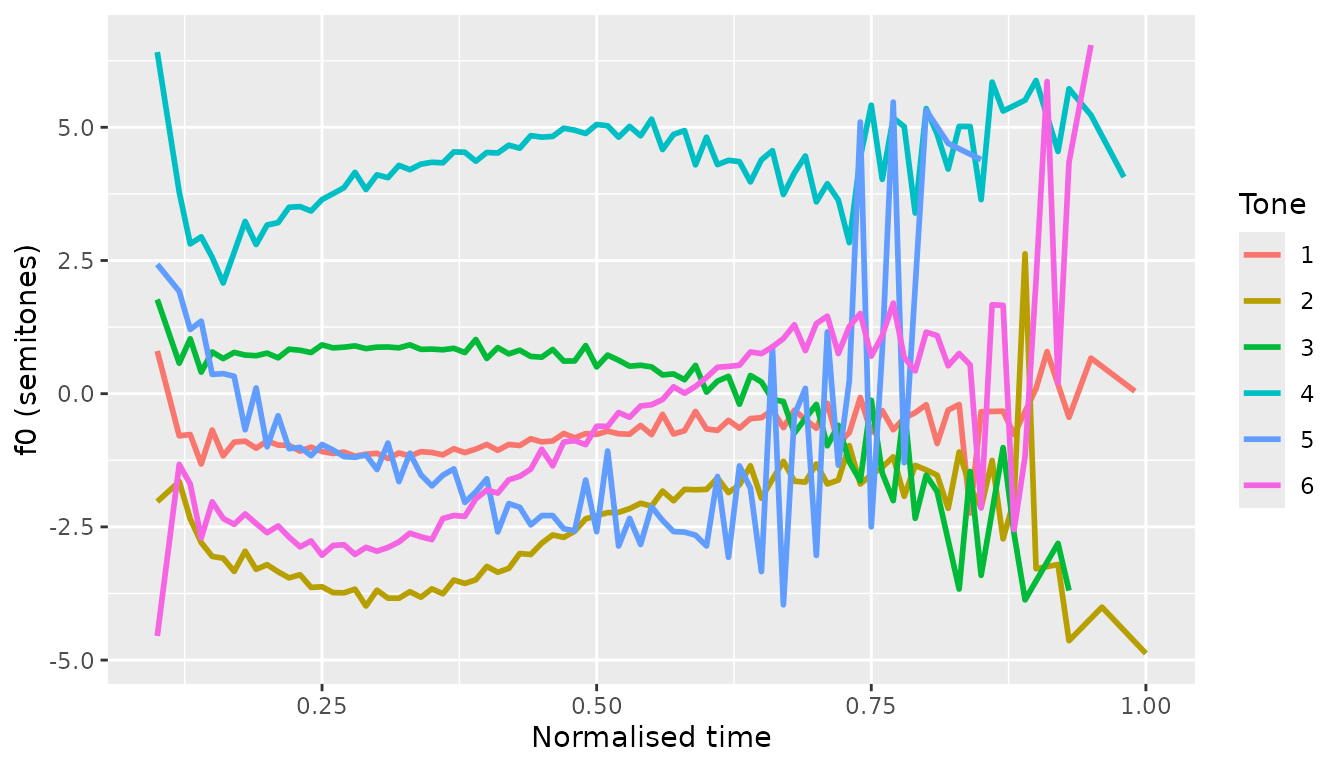
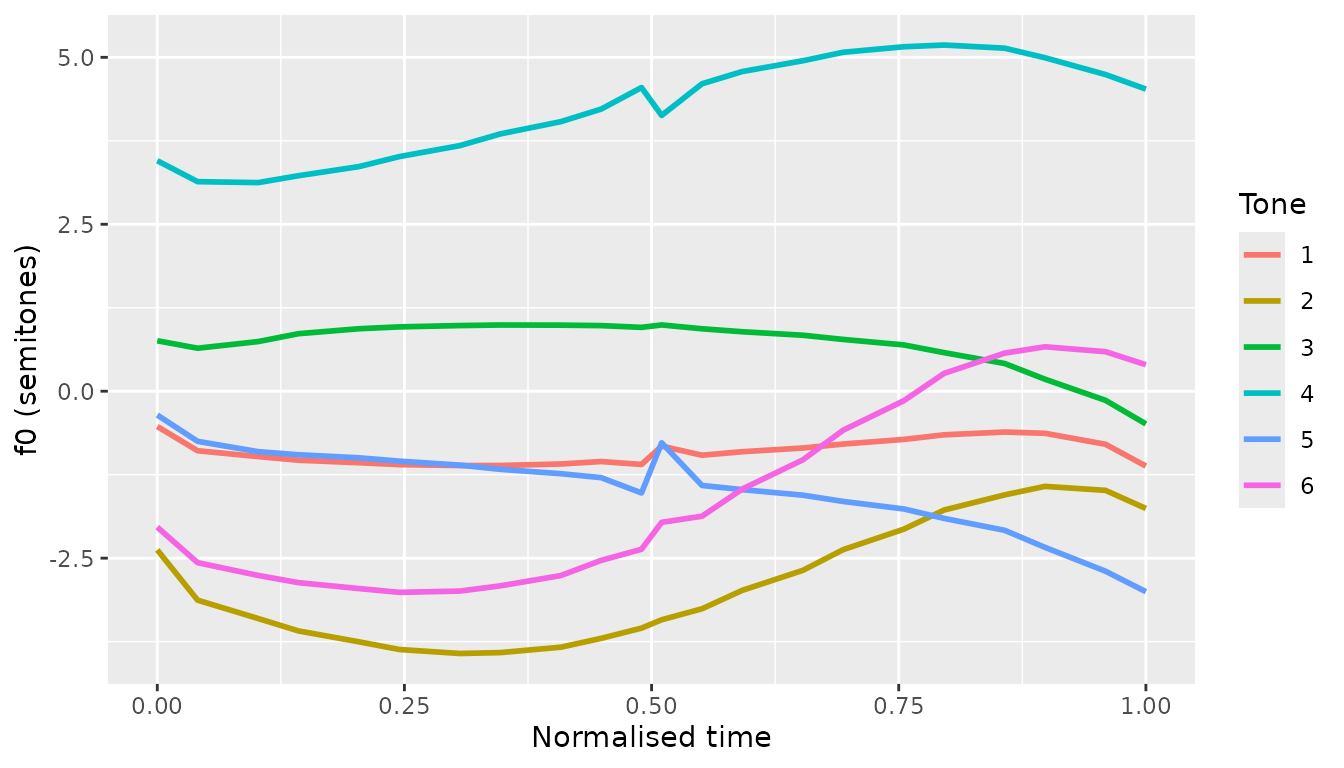
Deploying to gh-pages from @ chenchenzi/citationtone_hub@6ad83eccde905bf72adcabc54713f3b3e6e1a99e 🚀

diff --git a/articles/shinytone.html b/articles/shinytone.html
@@ -170,16 +170,20 @@ speaker:</p>
 <span><span class="co">#&gt; 4   dc102    3 248.5496     237.0675 0.8188289</span></span>
 <span><span class="co">#&gt; 5   dc102    3 249.7015     237.0675 0.8988754</span></span>
 <span><span class="co">#&gt; 6   dc102    3 251.6647     237.0675 1.0344568</span></span></code></pre></div>
-<p>Now <code>f0_st</code> puts every speaker on a comparable scale.
-Quick visual of the mean contour per tone across all speakers:</p>
+<p>Now <code>f0_st</code> puts every speaker on a comparable scale. To
+plot the mean contour per tone, use [compute_mean_contour()], which
+normalises time to <code>[0, 1]</code> <em>within each token</em> before
+averaging. The package function returns its result in the same
+<code>time / f0_predicted / tone</code> schema used by [predict_gca()]
+and [predict_gamm()]:</p>
 <div class="sourceCode" id="cb4"><pre class="downlit sourceCode r">
-<code class="sourceCode R"><span><span class="va">normed</span> <span class="op">|&gt;</span></span>
-<span>  <span class="fu"><a href="https://dplyr.tidyverse.org/reference/group_by.html" class="external-link">group_by</a></span><span class="op">(</span><span class="va">tone</span>, time_bin <span class="op">=</span> <span class="fu"><a href="https://rdrr.io/r/base/Round.html" class="external-link">round</a></span><span class="op">(</span><span class="va">time</span> <span class="op">/</span> <span class="fu"><a href="https://rdrr.io/r/base/Extremes.html" class="external-link">max</a></span><span class="op">(</span><span class="va">time</span><span class="op">)</span>, <span class="fl">2</span><span class="op">)</span><span class="op">)</span> <span class="op">|&gt;</span></span>
-<span>  <span class="fu"><a href="https://dplyr.tidyverse.org/reference/summarise.html" class="external-link">summarise</a></span><span class="op">(</span>f0_st <span class="op">=</span> <span class="fu"><a href="https://rdrr.io/r/base/mean.html" class="external-link">mean</a></span><span class="op">(</span><span class="va">f0_st</span>, na.rm <span class="op">=</span> <span class="cn">TRUE</span><span class="op">)</span>, .groups <span class="op">=</span> <span class="st">"drop"</span><span class="op">)</span> <span class="op">|&gt;</span></span>
-<span>  <span class="fu"><a href="https://ggplot2.tidyverse.org/reference/ggplot.html" class="external-link">ggplot</a></span><span class="op">(</span><span class="fu"><a href="https://ggplot2.tidyverse.org/reference/aes.html" class="external-link">aes</a></span><span class="op">(</span><span class="va">time_bin</span>, <span class="va">f0_st</span>, colour <span class="op">=</span> <span class="fu"><a href="https://rdrr.io/r/base/factor.html" class="external-link">factor</a></span><span class="op">(</span><span class="va">tone</span><span class="op">)</span><span class="op">)</span><span class="op">)</span> <span class="op">+</span></span>
+<code class="sourceCode R"><span><span class="va">mean_contour</span> <span class="op">&lt;-</span> <span class="fu"><a href="../reference/compute_mean_contour.html">compute_mean_contour</a></span><span class="op">(</span><span class="va">normed</span>,</span>
+<span>                                     token <span class="op">=</span> <span class="st">"token"</span>, f0 <span class="op">=</span> <span class="st">"f0_st"</span>,</span>
+<span>                                     time  <span class="op">=</span> <span class="st">"time"</span>,  tone <span class="op">=</span> <span class="st">"tone"</span><span class="op">)</span></span>
+<span></span>
+<span><span class="fu"><a href="https://ggplot2.tidyverse.org/reference/ggplot.html" class="external-link">ggplot</a></span><span class="op">(</span><span class="va">mean_contour</span>, <span class="fu"><a href="https://ggplot2.tidyverse.org/reference/aes.html" class="external-link">aes</a></span><span class="op">(</span><span class="va">time</span>, <span class="va">f0_predicted</span>, colour <span class="op">=</span> <span class="fu"><a href="https://rdrr.io/r/base/factor.html" class="external-link">factor</a></span><span class="op">(</span><span class="va">tone</span><span class="op">)</span><span class="op">)</span><span class="op">)</span> <span class="op">+</span></span>
 <span>  <span class="fu"><a href="https://ggplot2.tidyverse.org/reference/geom_path.html" class="external-link">geom_line</a></span><span class="op">(</span>linewidth <span class="op">=</span> <span class="fl">1</span><span class="op">)</span> <span class="op">+</span></span>
-<span>  <span class="fu"><a href="https://ggplot2.tidyverse.org/reference/labs.html" class="external-link">labs</a></span><span class="op">(</span>x <span class="op">=</span> <span class="st">"Normalised time"</span>, y <span class="op">=</span> <span class="st">"f0 (semitones)"</span>,</span>
-<span>       colour <span class="op">=</span> <span class="st">"Tone"</span><span class="op">)</span></span></code></pre></div>
+<span>  <span class="fu"><a href="https://ggplot2.tidyverse.org/reference/labs.html" class="external-link">labs</a></span><span class="op">(</span>x <span class="op">=</span> <span class="st">"Normalised time"</span>, y <span class="op">=</span> <span class="st">"f0 (semitones)"</span>, colour <span class="op">=</span> <span class="st">"Tone"</span><span class="op">)</span></span></code></pre></div>
 <p><img src="shinytone_files/figure-html/unnamed-chunk-4-1.png" class="r-plt" alt="" width="672"></p>
 </div>
 <div class="section level2">
@@ -321,8 +325,8 @@ numeral via <code><a href="../reference/classify_contour.html">classify_contour(
 <h2 id="where-to-go-next">Where to go next<a class="anchor" aria-label="anchor" href="#where-to-go-next"></a>
 </h2>
 <ul>
-<li>Browse the <a href="../reference/index.html">function reference</a>
-for the full API.</li>
+<li>Browse the <a href="https://chenchenzi.github.io/citationtone_hub/reference/">function
+reference</a> for the full API.</li>
 <li>Run <code><a href="../reference/run_app.html">shinytone::run_app()</a></code> locally for the full graphical
 workflow, including audio processing and a Praat script generator.</li>
 <li>Cite the package with <code>citation("shinytone")</code> in any work

diff --git a/index.html b/index.html
@@ -169,9 +169,8 @@
 <div class="license">
 <h2 data-toc-skip>License</h2>
 <ul class="list-unstyled">
-<li>
-<a href="https://opensource.org/licenses/mit-license.php" class="external-link">MIT</a> + file <a href="LICENSE-text.html">LICENSE</a>
-</li>
+<li><a href="LICENSE.html">Full license</a></li>
+<li><small><a href="https://opensource.org/licenses/mit-license.php" class="external-link">MIT</a> + file <a href="LICENSE-text.html">LICENSE</a></small></li>
 </ul>
 </div>
 

diff --git a/articles/shinytone.md b/articles/shinytone.md
@@ -101,18 +101,21 @@ head(normed[, c("speaker", "tone", "f0_Hz", "speaker_mean", "f0_st")])
 #> 6   dc102    3 251.6647     237.0675 1.0344568
 ```
 
-Now `f0_st` puts every speaker on a comparable scale. Quick visual of
-the mean contour per tone across all speakers:
+Now `f0_st` puts every speaker on a comparable scale. To plot the mean
+contour per tone, use \[compute_mean_contour()\], which normalises time
+to `[0, 1]` *within each token* before averaging. The package function
+returns its result in the same `time / f0_predicted / tone` schema used
+by \[predict_gca()\] and \[predict_gamm()\]:
 
 ``` r
 
-normed |>
-  group_by(tone, time_bin = round(time / max(time), 2)) |>
-  summarise(f0_st = mean(f0_st, na.rm = TRUE), .groups = "drop") |>
-  ggplot(aes(time_bin, f0_st, colour = factor(tone))) +
+mean_contour <- compute_mean_contour(normed,
+                                     token = "token", f0 = "f0_st",
+                                     time  = "time",  tone = "tone")
+
+ggplot(mean_contour, aes(time, f0_predicted, colour = factor(tone))) +
   geom_line(linewidth = 1) +
-  labs(x = "Normalised time", y = "f0 (semitones)",
-       colour = "Tone")
+  labs(x = "Normalised time", y = "f0 (semitones)", colour = "Tone")
 ```
 
 ![](shinytone_files/figure-html/unnamed-chunk-4-1.png)
@@ -255,7 +258,7 @@ The `shape` column summarises the contour (“rising”, “falling”,
 ## Where to go next
 
 - Browse the [function
-  reference](https://chenchenzi.github.io/citationtone_hub/reference/index.md)
+  reference](https://chenchenzi.github.io/citationtone_hub/reference/)
   for the full API.
 - Run
   [`shinytone::run_app()`](https://chenchenzi.github.io/citationtone_hub/reference/run_app.md)